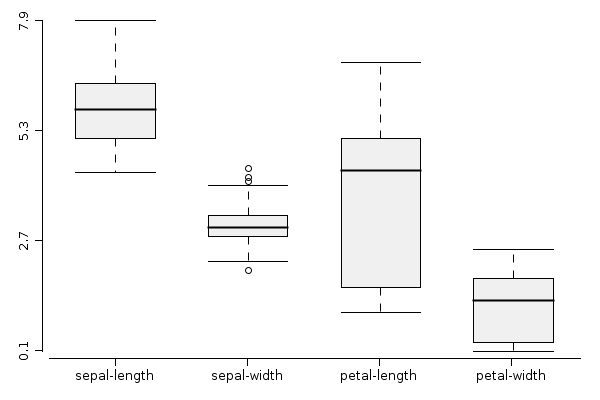
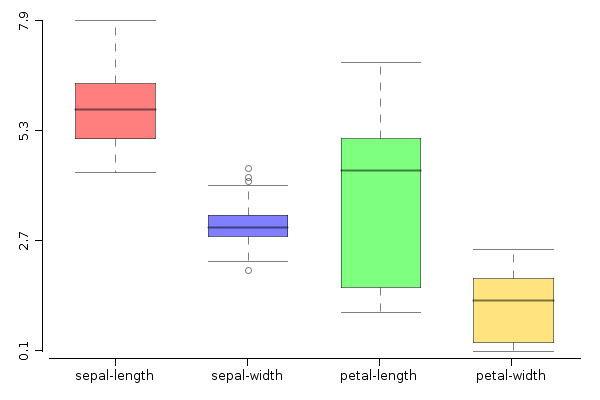
graphics manual page - box plot section

diff --git a/src/rapaio/graphics/plot/BoxPlot.java b/src/rapaio/graphics/plot/BoxPlot.java
@@ -130,6 +130,8 @@ public class BoxPlot extends HostFigure {
     public void paint(Graphics2D g2d, Rectangle rect) {
         super.paint(g2d, rect);
 
+        g2d.setComposite(AlphaComposite.getInstance(AlphaComposite.SRC_OVER, options.getAlpha()));
+
         for (int i = 0; i < vars.length; i++) {
             Var v = vars[i];
             if (v.rowCount() == 0) {
@@ -174,7 +176,6 @@ public class BoxPlot extends HostFigure {
                 if ((point > q[2] + outerFence) || (point < q[0] - outerFence)) {
                     // big outlier
                     g2d.setStroke(new BasicStroke(options.getLwd()));
-                    g2d.setComposite(AlphaComposite.getInstance(AlphaComposite.SRC_OVER, options.getAlpha()));
                     PchPalette.STANDARD.draw(g2d,
                             xScale(x2),
                             yScale(point),
@@ -184,7 +185,6 @@ public class BoxPlot extends HostFigure {
                 if ((point > q[2] + innerFence) || (point < q[0] - innerFence)) {
                     // outlier
                     g2d.setStroke(new BasicStroke(options.getLwd()));
-                    g2d.setComposite(AlphaComposite.getInstance(AlphaComposite.SRC_OVER, options.getAlpha()));
                     PchPalette.STANDARD.draw(g2d,
                             xScale(x2),
                             yScale(point),

diff --git a/manual-src/rapaio/manual/graphics/Graphics.java b/manual-src/rapaio/manual/graphics/Graphics.java
@@ -33,7 +33,7 @@ import rapaio.sys.WS;
 import java.io.IOException;
 import java.net.URISyntaxException;
 
-import static rapaio.graphics.Plotter.boxPlot;
+import static rapaio.graphics.Plotter.*;
 
 public class Graphics {
 
@@ -47,11 +47,11 @@ public class Graphics {
         iris.printSummary();
 
 
-        Figure fig = boxPlot(iris.mapVars("0~3"));
+        Figure fig = boxPlot(iris.mapVars("0~3"), color(1, 2, 3, 4), alpha(0.5f));
         WS.draw(fig);
         ImageUtility.saveImage(fig, 600, 400, root + "graphics-boxplot-iris-frame.png");
 
-        fig = boxPlot(iris.var(0), iris.var("class"));
+        fig = boxPlot(iris.var("sepal-length"), iris.var("class")).title("sepal-length separation");
         WS.draw(fig);
         ImageUtility.saveImage(fig, 600, 400, root + "graphics-boxplot-iris-sepal-length.png");
 

diff --git a/manual/graphics/graphics.Md b/manual/graphics/graphics.Md
@@ -69,7 +69,7 @@ This is the summary of this data set:
        Max. : 7.900     Max. : 4.400     Max. : 6.900     Max. : 2.500
 
 
-## Box plots
+## Box plot
 
 A box plot is a standard way of displaying information about the distribution of
 a continuous data variable based on five data summary. The five data summary consists
@@ -89,8 +89,50 @@ box plot is that the whiskers lies at the datum still within 1.5 IQR
 (*Interquartile range*).
 
 Any other points above or below whiskers are outliers. Outliers are of two different
-types
+types:
 
-![test text](../images/graphics-boxplot-iris-frame.png)
+* *extreme outliers* - outliers which are at a distance greater or equal than 3*IQR
+* *outliers* - outliers which are at a distance greater or equal than 1.5*IQR
 
-![Box plots for the same variable, but discriminated by class](../images/graphics-boxplot-iris-sepal-length.png)
+### Example 1
+
+**Scope**: *Draw one box plot for each numerical variable from iris data set. We
+want each box plot to have a different color and we want some de-saturated colors.*
+
+**Solution**:
+
+    WS.draw(boxPlot(iris.mapVars("0~3"), color(1, 2, 3, 4), alpha(0.5f)))
+
+![One box plot for each numerical variable](../images/graphics-boxplot-iris-frame.png)
+
+`iris.mapVars("0~3")` obtain a data set from `iris` data set, by keeping only the
+first 4 variables. We do that using the range notation (index of the start variable,
+concatenation symbol `~`, index of the last variable inclusive). Pay attention that
+variable indexes are 0 based.
+
+`color(1, 2, 3, 4)` we use colors from the current color palette, indexed with the
+specified integer values.
+
+`alpha(0.3f)` we de-saturate the drawing keeping only 0.3 of the actual color.
+
+### Example 2
+
+**Scope**: *In order to identify the overlap between values of `sepal-length` variable
+from iris data set, we draw one box plot for each segment of the nominal `class`
+variable, and add a title*
+
+**Solution**:
+
+    WS.draw(boxPlot(iris.var("sepal-length"), iris.var("class"))
+        .title("sepal-length separation"));
+
+`iris.var("sepal-length")` is the variable named `sepal-length` from `iris` data set,
+ which is the numerical variable to be segmented and later box-plotted
+
+ `iris.var("class")` specifies the segment discriminator, depending on the levels of
+ this variable, the same number of levels will be created
+
+ `.title("..")` adds a title to the box plot
+
+![Box plots for the "sepal-length" variable, but discriminated by class](../images/graphics-boxplot-iris-sepal-length.png)
+
